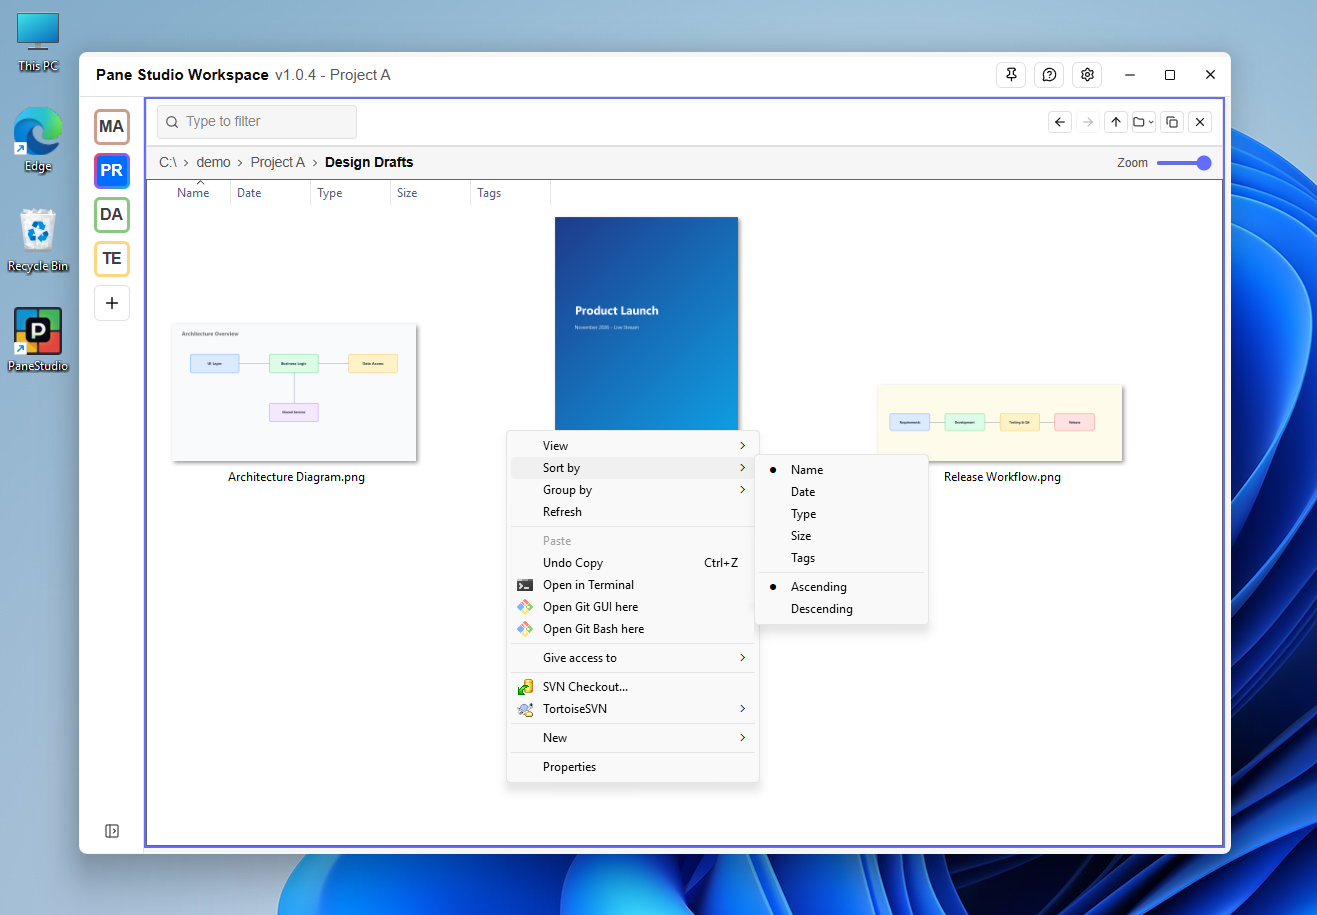
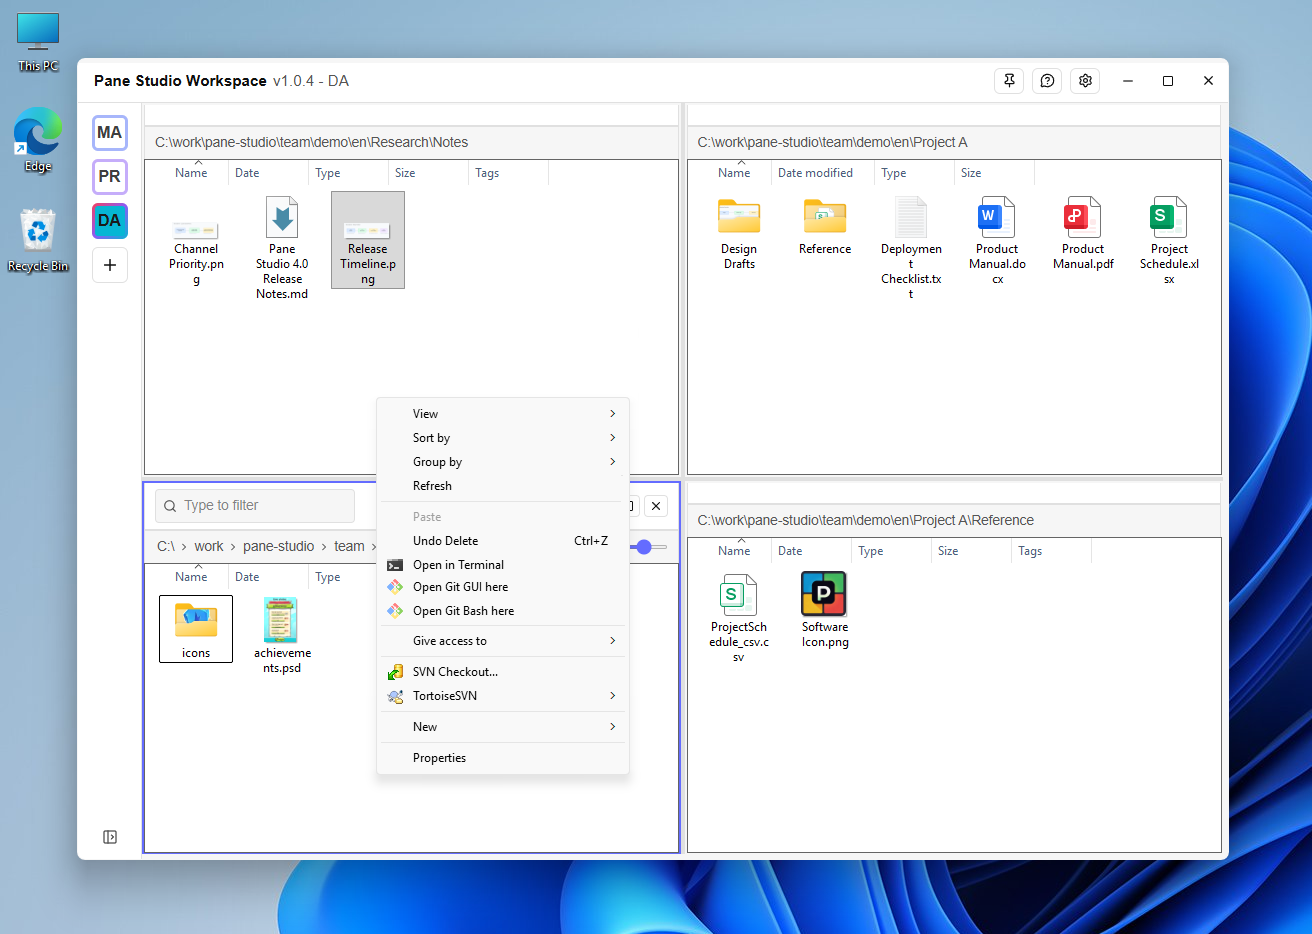
img3

Changed region(s): [[0.0, 0.0306, 1.0, 1.0], [0.0, 0.3366, 0.0625, 0.4284], [0.3438, 0.8262, 0.375, 0.8568]]

diff --git a/index.html b/index.html
@@ -325,7 +325,7 @@
     <div class="feat flip">
       <div>
         <h3>Direct document preview and editing</h3>
-        <p>PDF, Markdown, and Word all support search and zoom as read-only previews; Excel workbooks (.xlsx) <span class="hl">can be edited directly and saved back to the original file</span>. Markdown headings, tables, code blocks, and images are fully rendered out of the box.</p>
+        <p>PDF, Markdown, and Word all support search and zoom as read-only previews; Excel workbooks (.xlsx) <span class="hl">can be edited directly and saved back to the original file</span>. </p>
       </div>
       <div class="feat-img"><img src="screenshots/img4.png" alt="Merged Excel editing in a document pane" loading="lazy"></div>
     </div>
